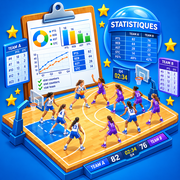
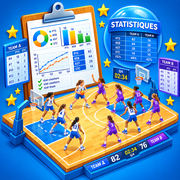
coffre icone

diff --git a/app/page.tsx b/app/page.tsx
@@ -89,6 +89,14 @@ export default function App() {
   const [matchType, setMatchType] = useState<'OFFICIEL' | 'AMICAL'>('OFFICIEL');
   const [homeAway, setHomeAway] = useState<'DOMICILE' | 'EXTERIEUR'>('DOMICILE');
   const [isEditingTeamForm, setIsEditingTeamForm] = useState(false);
+  const [showLogoFull, setShowLogoFull] = useState(false);
+  const lastLogoTapRef = React.useRef(0);
+  useEffect(() => {
+    if (!showLogoFull) return;
+    const onKey = (e: KeyboardEvent) => { if (e.key === 'Escape') setShowLogoFull(false); };
+    window.addEventListener('keydown', onKey);
+    return () => window.removeEventListener('keydown', onKey);
+  }, [showLogoFull]);
   const [editingPlayerId, setEditingPlayerId] = useState<string | null>(null);
   const [teamSaveStatus, setTeamSaveStatus] = useState<'idle' | 'saving' | 'saved' | 'error'>('idle');
   const [clubNames, setClubNames] = useState<string[]>([]);
@@ -1092,7 +1100,25 @@ export default function App() {
 
               <div className="flex flex-col sm:flex-row gap-4">
               {/* eslint-disable-next-line @next/next/no-img-element */}
-              <img src="/logo-stats.png" alt="Statistiques basket" className="w-28 h-28 sm:w-56 sm:h-56 shrink-0 self-center sm:self-start" />
+              <img
+                src="/logo-stats.png"
+                alt="Statistiques basket"
+                title="Double-clic pour agrandir"
+                onClick={() => {
+                  const now = Date.now();
+                  if (now - lastLogoTapRef.current < 400) { setShowLogoFull(true); lastLogoTapRef.current = 0; }
+                  else lastLogoTapRef.current = now;
+                }}
+                style={{ touchAction: 'manipulation' }}
+                className="w-28 h-28 sm:w-56 sm:h-56 shrink-0 self-center sm:self-start cursor-zoom-in select-none"
+              />
+              {showLogoFull && (
+                <div onClick={() => setShowLogoFull(false)} className="fixed inset-0 z-50 bg-black/85 flex items-center justify-center p-3 cursor-zoom-out">
+                  {/* eslint-disable-next-line @next/next/no-img-element */}
+                  <img src="/logo-stats-full.png" alt="Statistiques basket" className="max-w-full max-h-full object-contain" />
+                  <button onClick={() => setShowLogoFull(false)} aria-label="Fermer" className="absolute top-3 right-3 w-10 h-10 rounded-full bg-slate-800/90 text-white text-lg font-bold border border-slate-600">✕</button>
+                </div>
+              )}
               <div className="flex-1 min-w-0 space-y-4">
               <div className="flex items-end space-x-2">
                 <div className="flex-1">
